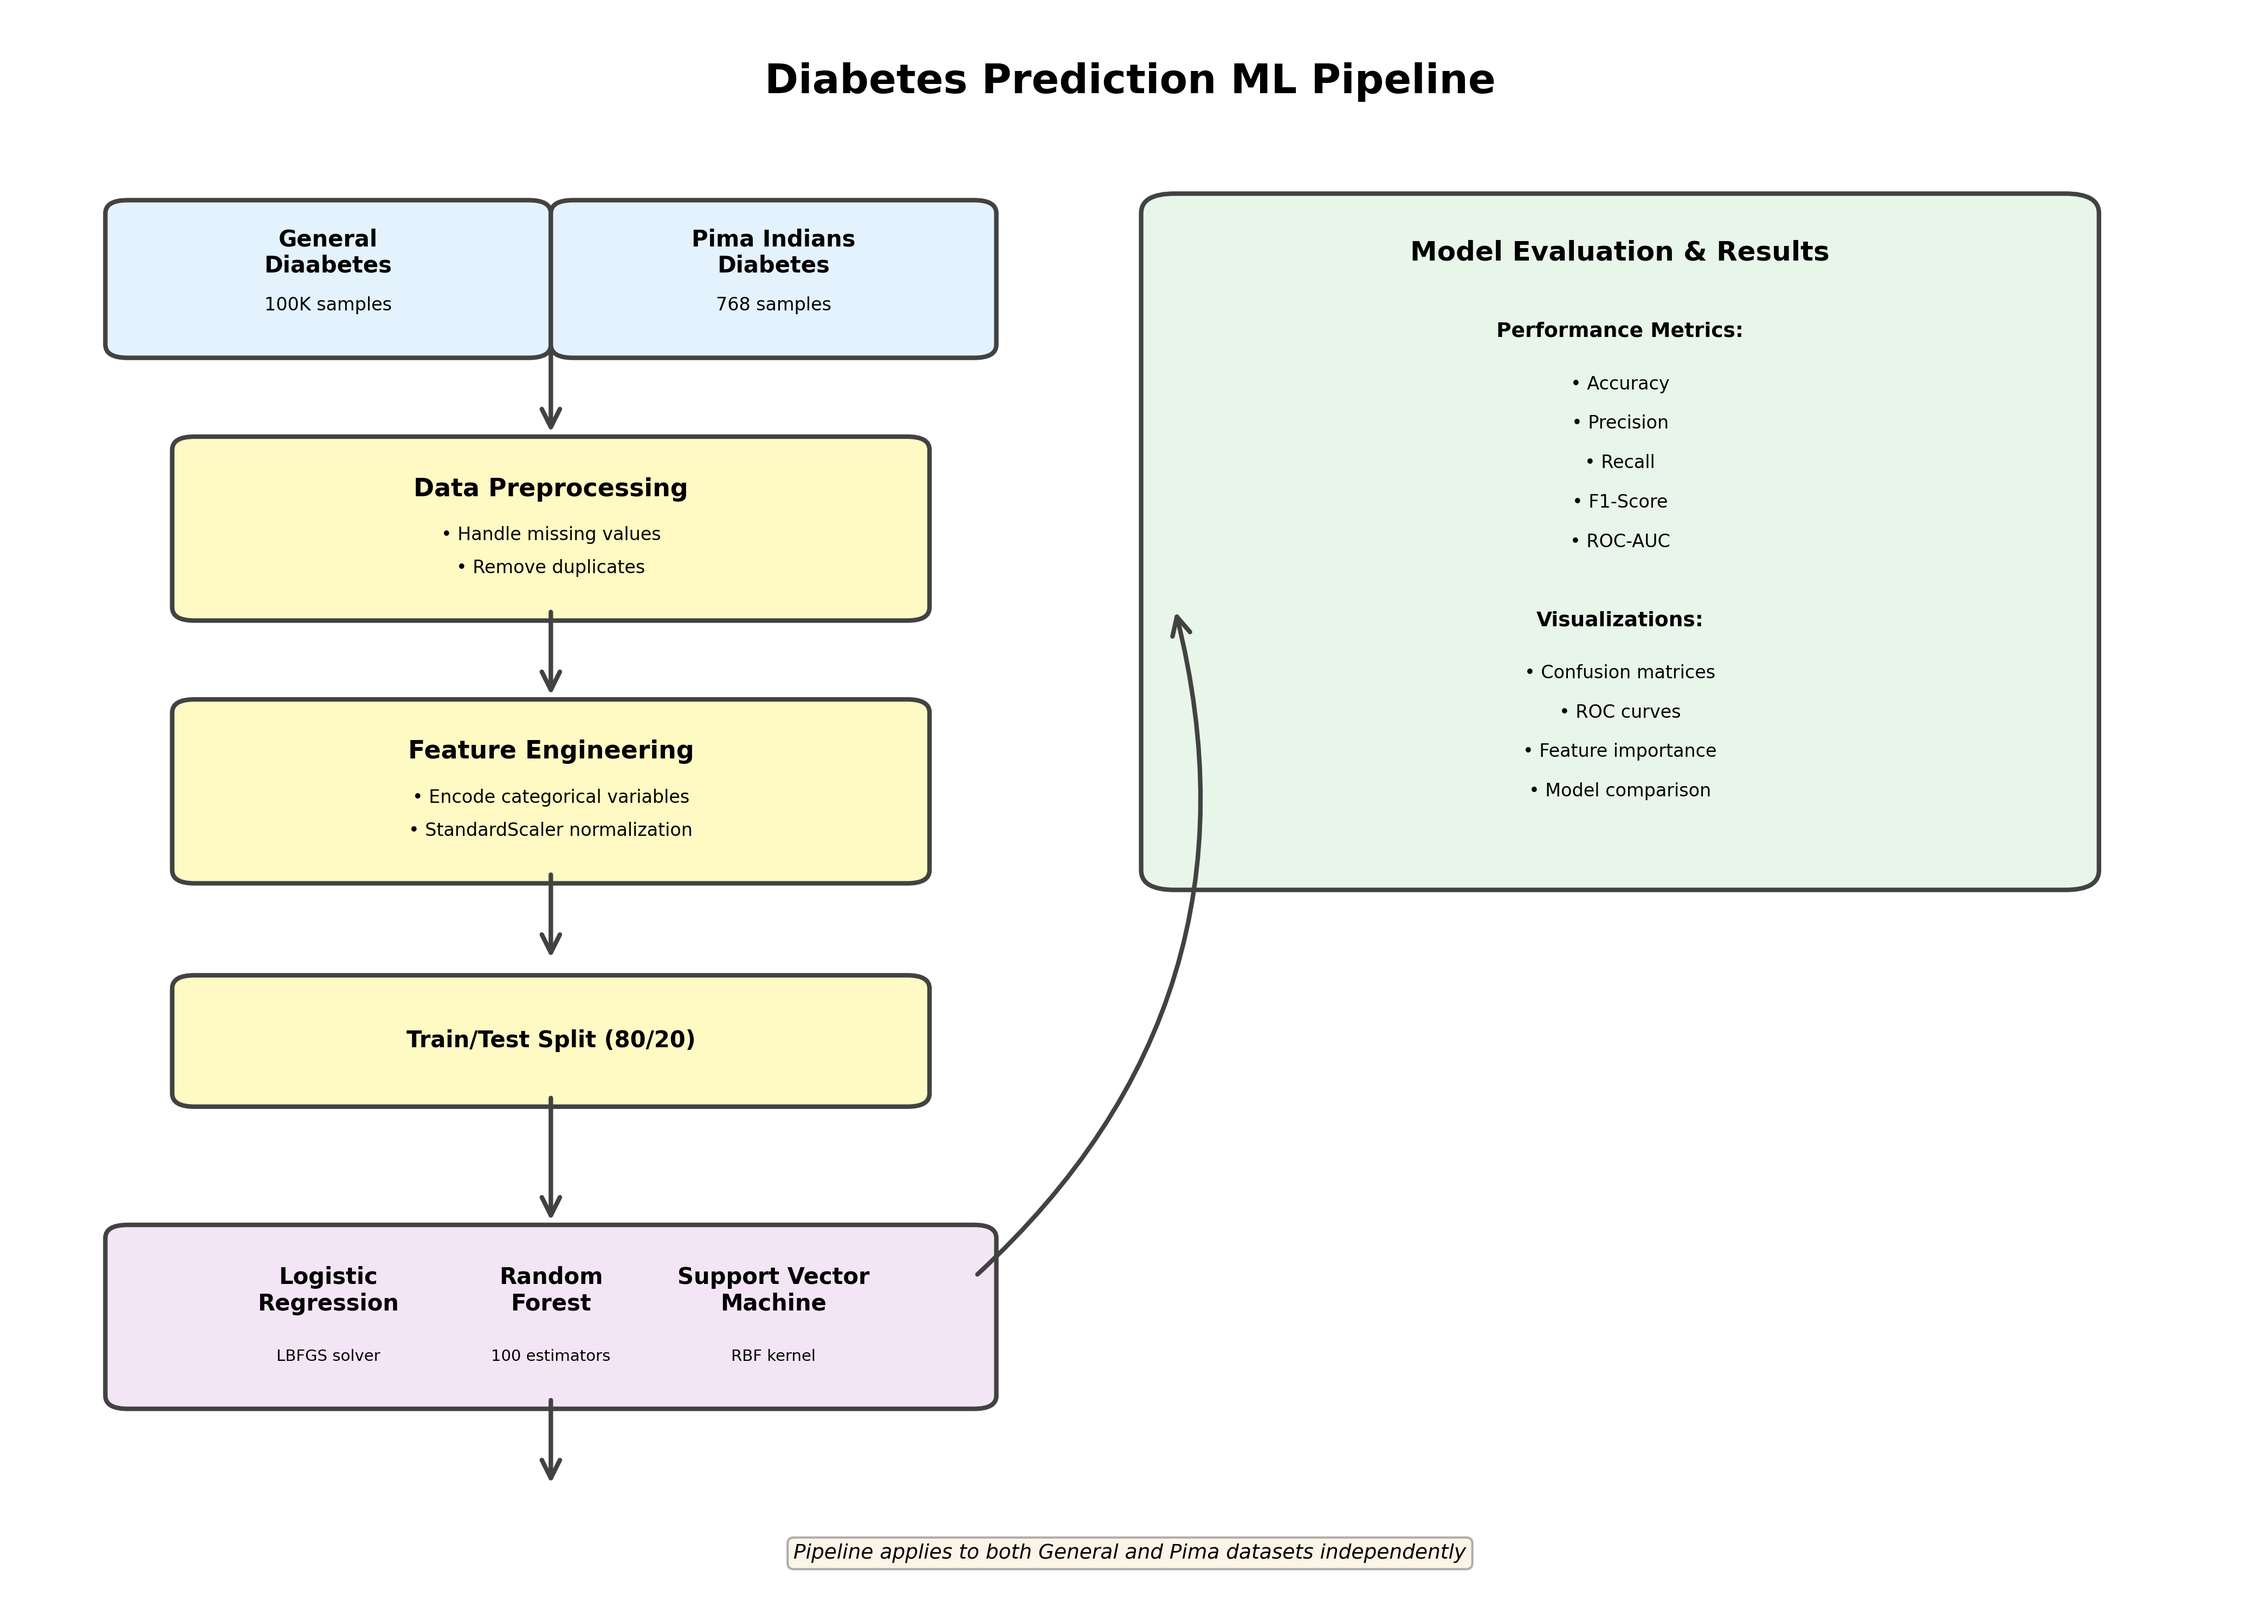
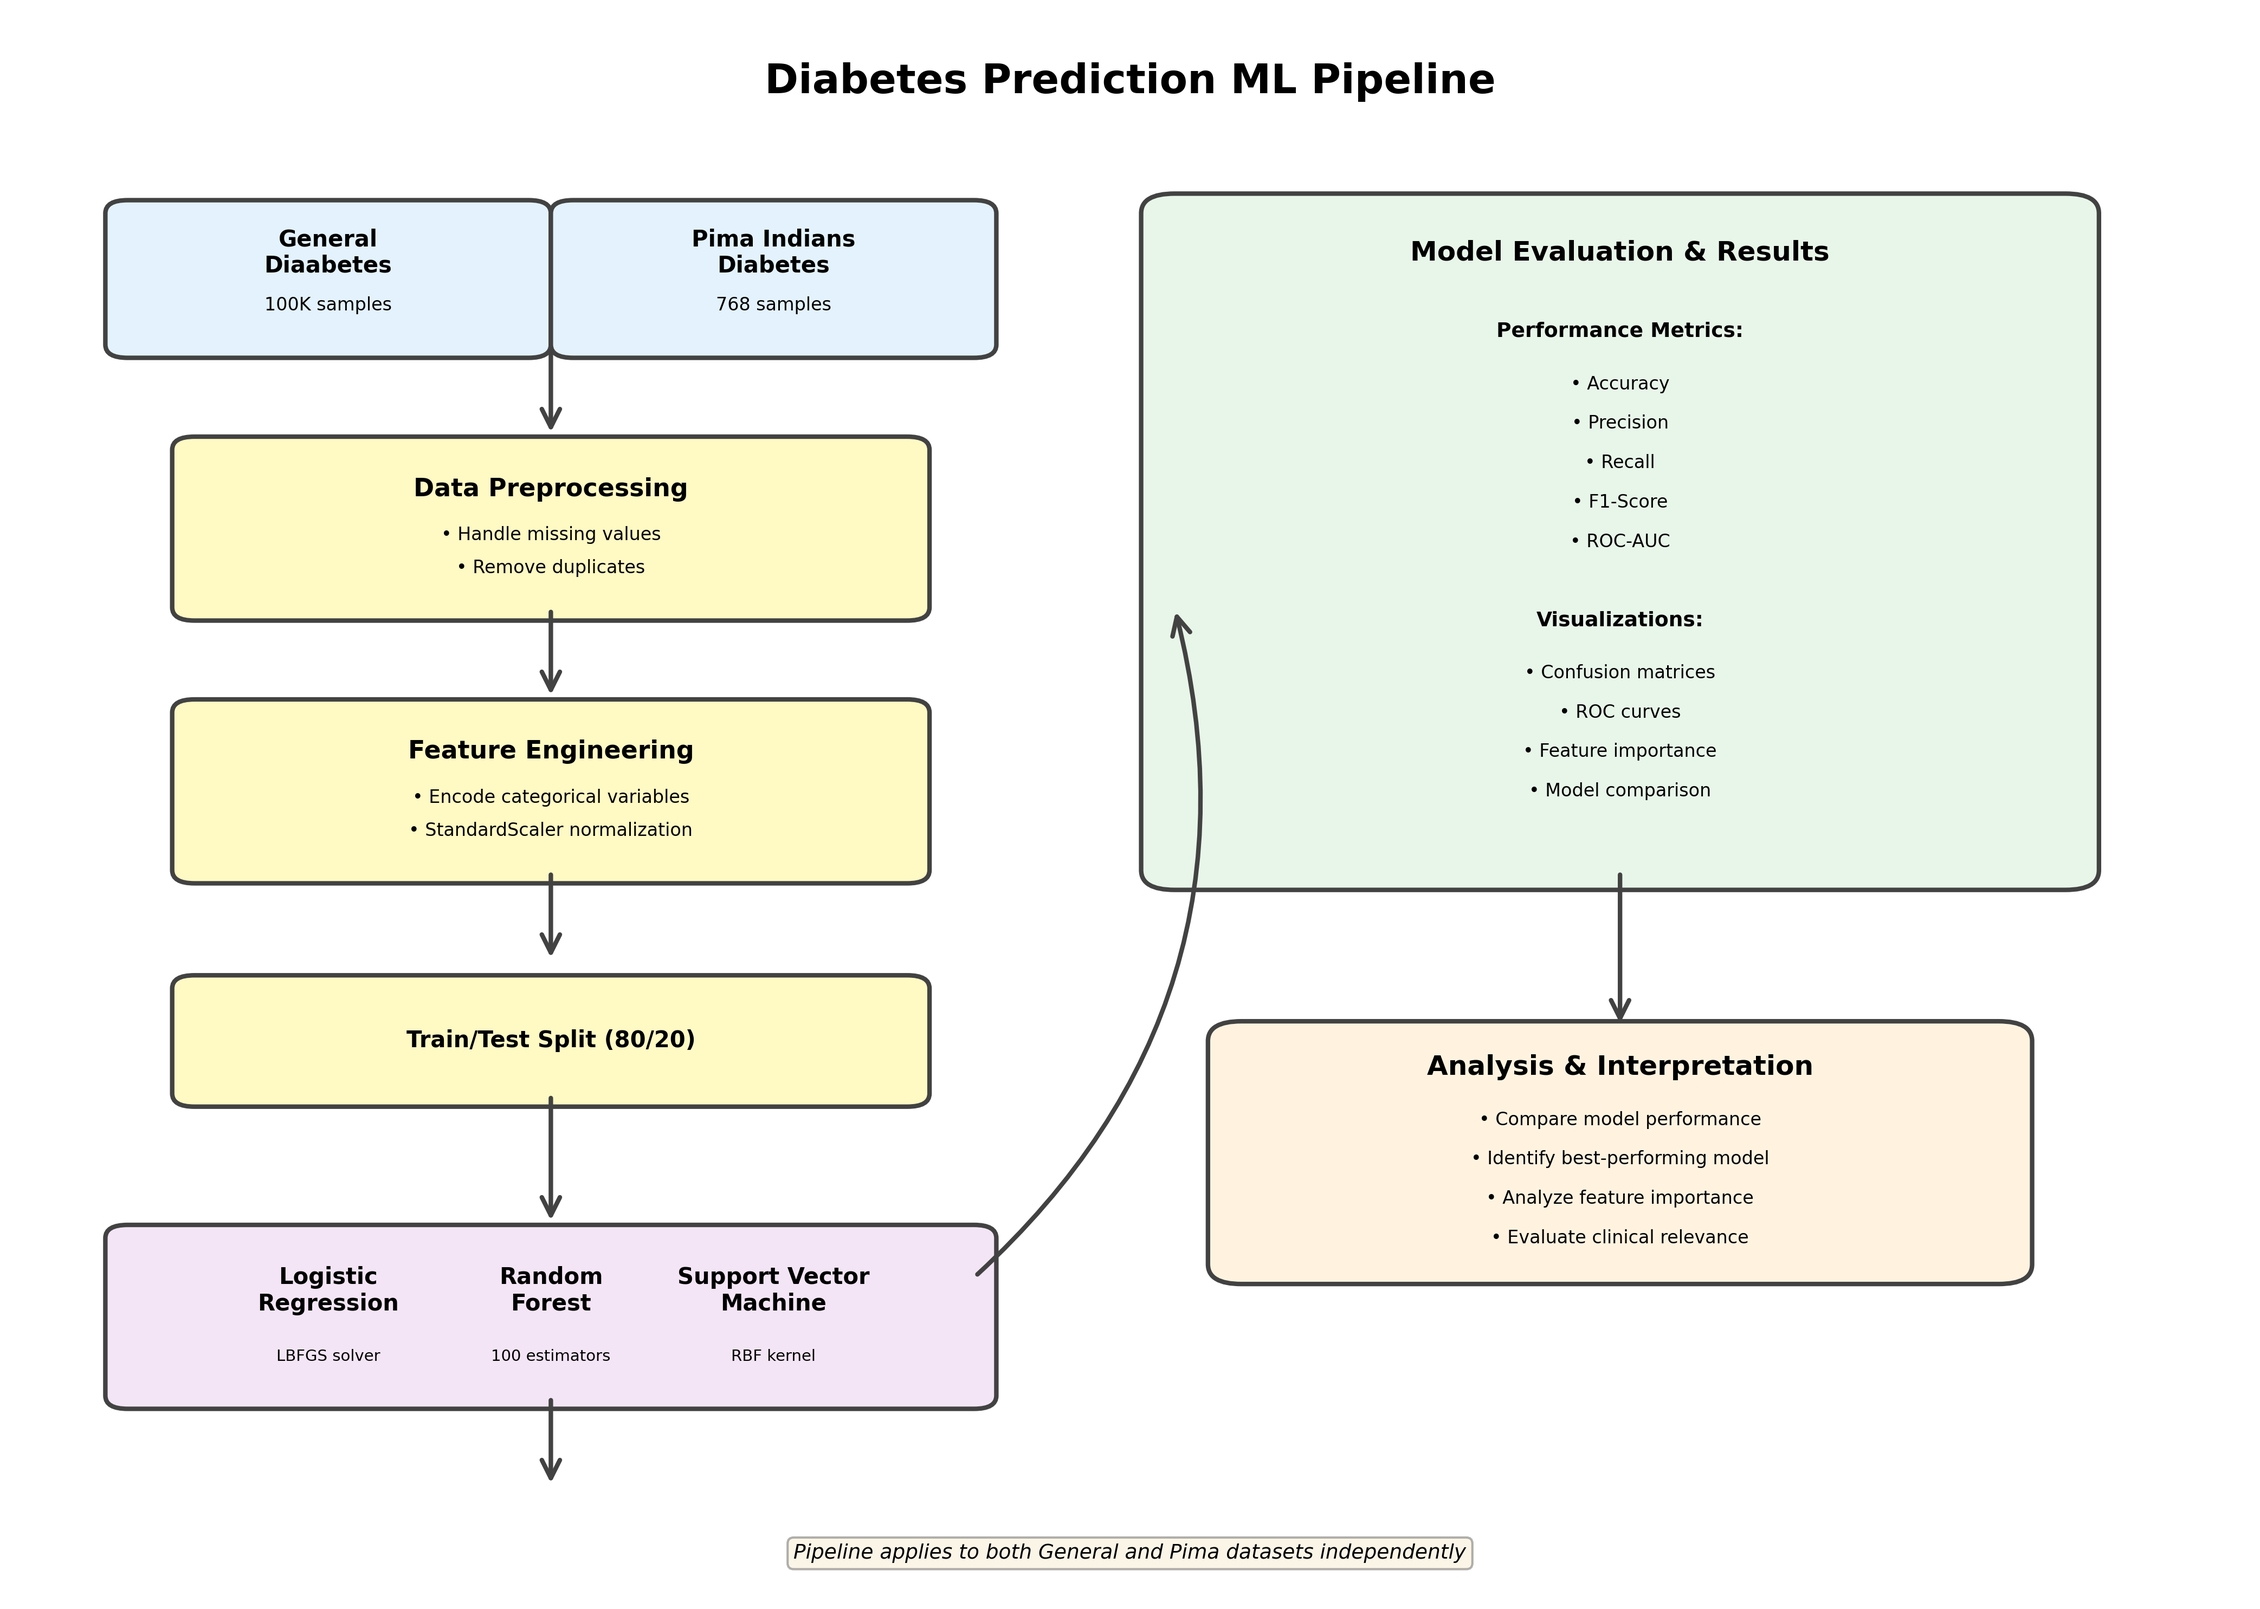
Add analysis step to workflow diagram
- Add Analysis & Interpretation box below Model Evaluation
- Include analysis steps: compare performance, identify best model, analyze features, evaluate clinical relevance
- Optimize box dimensions to prevent arrow overlap

Changed region(s): [[0.53, 0.6195, 0.9041, 0.8054]]

diff --git a/workflow/generate_workflow_diagram.py b/workflow/generate_workflow_diagram.py
@@ -133,6 +133,29 @@ def create_workflow_diagram():
                             color=edge_color, connectionstyle="arc3,rad=0.3")
     ax.add_patch(arrow6)
     
+    # Arrow from evaluation to analysis
+    arrow7 = FancyArrowPatch((7.2, 5.5), (7.2, 4.3),
+                            arrowstyle='->', mutation_scale=20, linewidth=2, color=edge_color)
+    ax.add_patch(arrow7)
+    
+    # Step 7: Analysis and Interpretation
+    box7 = FancyBboxPatch((5.5, 2.5), 3.4, 1.7, boxstyle="round,pad=0.15",
+                          edgecolor=edge_color, facecolor='#FFF3E0', linewidth=2)  # Light orange
+    ax.add_patch(box7)
+    ax.text(7.2, 4.0, 'Analysis & Interpretation', ha='center', va='center', 
+            fontsize=12, fontweight='bold')
+    
+    # Analysis steps
+    analysis_steps = [
+        ('• Compare model performance', 3.6, False),
+        ('• Identify best-performing model', 3.3, False),
+        ('• Analyze feature importance', 3.0, False),
+        ('• Evaluate clinical relevance', 2.7, False),
+    ]
+    
+    for text, y, is_header in analysis_steps:
+        ax.text(7.2, y, text, ha='center', va='center', fontsize=8)
+    
     # Add legend/notes at bottom
     ax.text(5, 0.3, 'Pipeline applies to both General and Pima datasets independently', 
             ha='center', va='center', fontsize=9, style='italic', 
